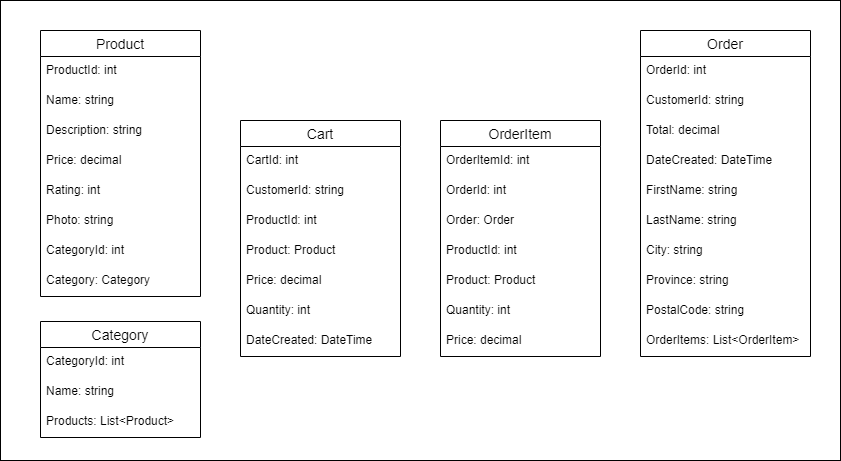
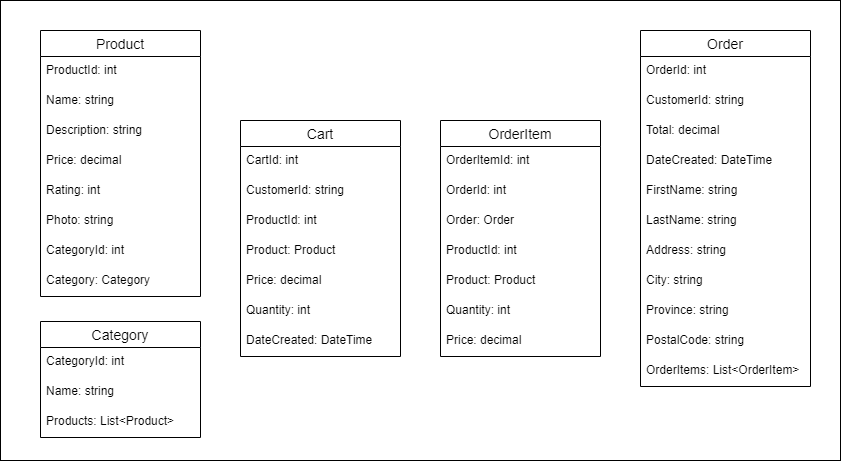
l04 connecting to the db and creating migrations

diff --git a/lesson04/DotNetGrill/DotNetGrill/Data/Migrations/20230329233615_InitialTables.cs b/lesson04/DotNetGrill/DotNetGrill/Data/Migrations/20230329233615_InitialTables.cs
@@ -1,0 +1,160 @@
+using System;
+using Microsoft.EntityFrameworkCore.Migrations;
+
+#nullable disable
+
+namespace DotNetGrill.Data.Migrations
+{
+    public partial class InitialTables : Migration
+    {
+        protected override void Up(MigrationBuilder migrationBuilder)
+        {
+            migrationBuilder.CreateTable(
+                name: "Categories",
+                columns: table => new
+                {
+                    CategoryId = table.Column<int>(type: "int", nullable: false)
+                        .Annotation("SqlServer:Identity", "1, 1"),
+                    Name = table.Column<string>(type: "nvarchar(max)", nullable: false)
+                },
+                constraints: table =>
+                {
+                    table.PrimaryKey("PK_Categories", x => x.CategoryId);
+                });
+
+            migrationBuilder.CreateTable(
+                name: "Orders",
+                columns: table => new
+                {
+                    OrderId = table.Column<int>(type: "int", nullable: false)
+                        .Annotation("SqlServer:Identity", "1, 1"),
+                    CustomerId = table.Column<string>(type: "nvarchar(max)", nullable: false),
+                    Total = table.Column<decimal>(type: "decimal(18,2)", nullable: false),
+                    DateCreated = table.Column<DateTime>(type: "datetime2", nullable: false),
+                    FirstName = table.Column<string>(type: "nvarchar(max)", nullable: false),
+                    LastName = table.Column<string>(type: "nvarchar(max)", nullable: false),
+                    Address = table.Column<string>(type: "nvarchar(max)", nullable: false),
+                    City = table.Column<string>(type: "nvarchar(max)", nullable: false),
+                    Province = table.Column<string>(type: "nvarchar(max)", nullable: false),
+                    PostalCode = table.Column<string>(type: "nvarchar(max)", nullable: false)
+                },
+                constraints: table =>
+                {
+                    table.PrimaryKey("PK_Orders", x => x.OrderId);
+                });
+
+            migrationBuilder.CreateTable(
+                name: "Products",
+                columns: table => new
+                {
+                    ProductId = table.Column<int>(type: "int", nullable: false)
+                        .Annotation("SqlServer:Identity", "1, 1"),
+                    Name = table.Column<string>(type: "nvarchar(max)", nullable: false),
+                    Description = table.Column<string>(type: "nvarchar(max)", nullable: false),
+                    Price = table.Column<decimal>(type: "decimal(18,2)", nullable: false),
+                    Rating = table.Column<int>(type: "int", nullable: false),
+                    Photo = table.Column<string>(type: "nvarchar(max)", nullable: false),
+                    CategoryId = table.Column<int>(type: "int", nullable: false)
+                },
+                constraints: table =>
+                {
+                    table.PrimaryKey("PK_Products", x => x.ProductId);
+                    table.ForeignKey(
+                        name: "FK_Products_Categories_CategoryId",
+                        column: x => x.CategoryId,
+                        principalTable: "Categories",
+                        principalColumn: "CategoryId",
+                        onDelete: ReferentialAction.Cascade);
+                });
+
+            migrationBuilder.CreateTable(
+                name: "Carts",
+                columns: table => new
+                {
+                    CartId = table.Column<int>(type: "int", nullable: false)
+                        .Annotation("SqlServer:Identity", "1, 1"),
+                    CustomerId = table.Column<string>(type: "nvarchar(max)", nullable: false),
+                    ProductId = table.Column<int>(type: "int", nullable: false),
+                    Price = table.Column<decimal>(type: "decimal(18,2)", nullable: false),
+                    Quantity = table.Column<int>(type: "int", nullable: false),
+                    DateCreated = table.Column<DateTime>(type: "datetime2", nullable: false)
+                },
+                constraints: table =>
+                {
+                    table.PrimaryKey("PK_Carts", x => x.CartId);
+                    table.ForeignKey(
+                        name: "FK_Carts_Products_ProductId",
+                        column: x => x.ProductId,
+                        principalTable: "Products",
+                        principalColumn: "ProductId",
+                        onDelete: ReferentialAction.Cascade);
+                });
+
+            migrationBuilder.CreateTable(
+                name: "OrderItems",
+                columns: table => new
+                {
+                    OrderItemId = table.Column<int>(type: "int", nullable: false)
+                        .Annotation("SqlServer:Identity", "1, 1"),
+                    OrderId = table.Column<int>(type: "int", nullable: false),
+                    ProductId = table.Column<int>(type: "int", nullable: false),
+                    Quantity = table.Column<int>(type: "int", nullable: false),
+                    Price = table.Column<decimal>(type: "decimal(18,2)", nullable: false)
+                },
+                constraints: table =>
+                {
+                    table.PrimaryKey("PK_OrderItems", x => x.OrderItemId);
+                    table.ForeignKey(
+                        name: "FK_OrderItems_Orders_OrderId",
+                        column: x => x.OrderId,
+                        principalTable: "Orders",
+                        principalColumn: "OrderId",
+                        onDelete: ReferentialAction.Cascade);
+                    table.ForeignKey(
+                        name: "FK_OrderItems_Products_ProductId",
+                        column: x => x.ProductId,
+                        principalTable: "Products",
+                        principalColumn: "ProductId",
+                        onDelete: ReferentialAction.Cascade);
+                });
+
+            migrationBuilder.CreateIndex(
+                name: "IX_Carts_ProductId",
+                table: "Carts",
+                column: "ProductId");
+
+            migrationBuilder.CreateIndex(
+                name: "IX_OrderItems_OrderId",
+                table: "OrderItems",
+                column: "OrderId");
+
+            migrationBuilder.CreateIndex(
+                name: "IX_OrderItems_ProductId",
+                table: "OrderItems",
+                column: "ProductId");
+
+            migrationBuilder.CreateIndex(
+                name: "IX_Products_CategoryId",
+                table: "Products",
+                column: "CategoryId");
+        }
+
+        protected override void Down(MigrationBuilder migrationBuilder)
+        {
+            migrationBuilder.DropTable(
+                name: "Carts");
+
+            migrationBuilder.DropTable(
+                name: "OrderItems");
+
+            migrationBuilder.DropTable(
+                name: "Orders");
+
+            migrationBuilder.DropTable(
+                name: "Products");
+
+            migrationBuilder.DropTable(
+                name: "Categories");
+        }
+    }
+}

diff --git a/lesson04/DotNetGrill/DotNetGrill/Data/Migrations/20230329233615_InitialTables.Designer.cs b/lesson04/DotNetGrill/DotNetGrill/Data/Migrations/20230329233615_InitialTables.Designer.cs
@@ -4,6 +4,7 @@ using DotNetGrill.Data;
 using Microsoft.EntityFrameworkCore;
 using Microsoft.EntityFrameworkCore.Infrastructure;
 using Microsoft.EntityFrameworkCore.Metadata;
+using Microsoft.EntityFrameworkCore.Migrations;
 using Microsoft.EntityFrameworkCore.Storage.ValueConversion;
 
 #nullable disable
@@ -11,9 +12,10 @@ using Microsoft.EntityFrameworkCore.Storage.ValueConversion;
 namespace DotNetGrill.Data.Migrations
 {
     [DbContext(typeof(ApplicationDbContext))]
-    partial class ApplicationDbContextModelSnapshot : ModelSnapshot
+    [Migration("20230329233615_InitialTables")]
+    partial class InitialTables
     {
-        protected override void BuildModel(ModelBuilder modelBuilder)
+        protected override void BuildTargetModel(ModelBuilder modelBuilder)
         {
 #pragma warning disable 612, 618
             modelBuilder

diff --git a/lesson04/DotNetGrill/DotNetGrill/Models/Order.cs b/lesson04/DotNetGrill/DotNetGrill/Models/Order.cs
@@ -1,6 +1,19 @@
-namespace DotNetGrill.Models
+using System.ComponentModel.DataAnnotations;
+
+namespace DotNetGrill.Models
 {
     public class Order
     {
+        public int OrderId { get; set; }
+        public string CustomerId { get; set; }
+        public decimal Total { get; set; }
+        public DateTime DateCreated {get;set;}
+        public string FirstName { get; set; }
+        public string LastName { get; set; }
+        public string Address { get; set; }
+        public string City { get; set; }
+        public string Province { get; set; }
+        public string PostalCode { get; set; }
+        public List<OrderItem> OrderItems { get; set; }
     }
 }

diff --git a/lesson04/DotNetGrill/DotNetGrill/Models/OrderItem.cs b/lesson04/DotNetGrill/DotNetGrill/Models/OrderItem.cs
@@ -10,6 +10,7 @@
         public int ProductId { get; set; }
         public Product Product { get; set; }
         public int Quantity { get; set; }
+        // Calculated price > (product price * quantity)
         public decimal Price { get; set; }
     }
 }
